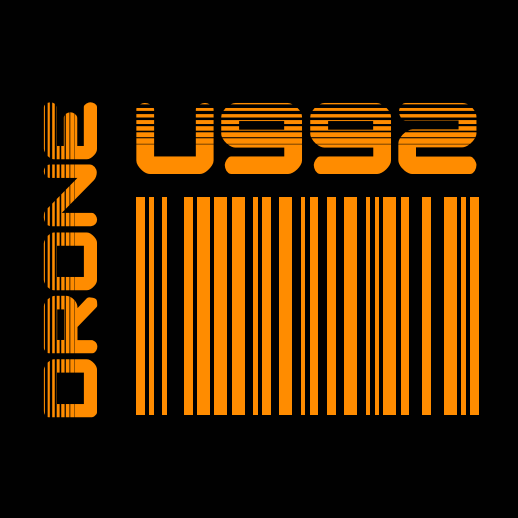
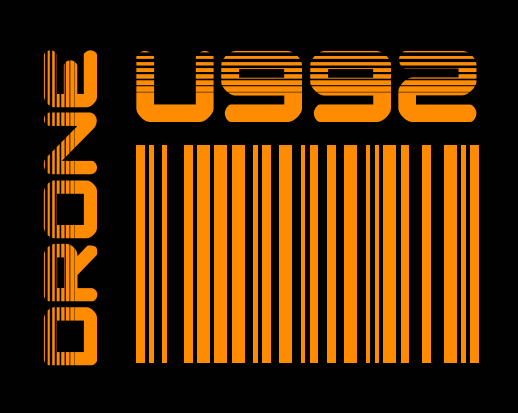
fixed tests

diff --git a/DroneTools.py b/DroneTools.py
@@ -276,7 +276,6 @@ if __name__ == "__main__":
         {
             "drone_id": "U992",
             "barcode": True,
-            "square": True,
             "font_path": "./assets/font2.otf",
             "title": "Drone",
             "front_color": "#FF8C00",
@@ -357,7 +356,7 @@ if __name__ == "__main__":
     for drone in drones[:]:
         #drone_ids = [] # Uncomment this out to disable collision detection
         drone_tag = DroneTag(drone, drone_ids)
-        #print(f"Droneified: {drone_tag.drone_id} {json.dumps(drone_tag.drone_data, indent=4)}\n")
+        print(f"Droneified: {drone_tag.drone_id} {json.dumps(drone_tag.drone_data, indent=4)}\n")
         if drone_tag.drone_id != None: drone_tag.save(f"./examples/{drone_tag.drone_id}.png")
 
 
